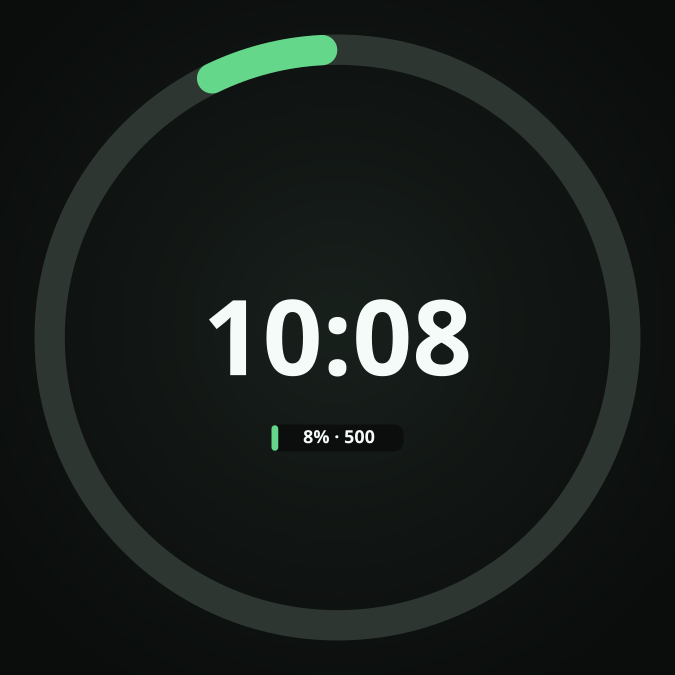
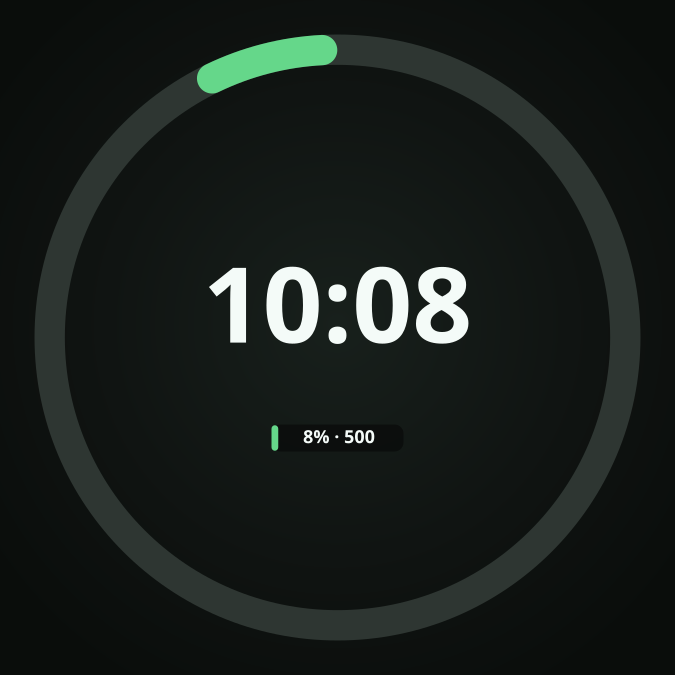
fix(design): lift the clock in review art to the measured position

Changed region(s): [[0.3111, 0.3733, 0.7156, 0.56]]

diff --git a/docs/product/WATCH_RING_DESIGN.md b/docs/product/WATCH_RING_DESIGN.md
@@ -279,6 +279,14 @@ and the caps fill exactly what the inset freed: at 50% used the gap measures **1
 a true 179.95°, on the full band and on both halves alike. Review art carries the same inset,
 which is why the boards and the watch still agree.
 
+**The clock sits above the centre, and the number is measured, not declared.** `watchface.xml`
+gives `TimeText` a box at `y=160, height=90`, whose centre is 20 units above the canvas centre;
+measured 2026-08-13, WFF renders the digits **21.7** up. That is the optical centre the hero rule
+asks for — the strip stack below pulls the eye down. Review art centred the clock geometrically
+and disagreed with the face by that much; it now carries the measured lift (`TIME_LIFT` in
+`tools/render-watch-ring-designs.mjs`), which is why the boards and the watch show the same
+screen.
+
 **A band that has spent nothing closes (revision 2026-08-17).** The cap inset above is what
 makes a small melt visible, but at `usedPercent == 0` there is no melt to inset and the inset
 leaves the ring open anyway: measured on the paired band, a seam of about **1°** at 12, four
